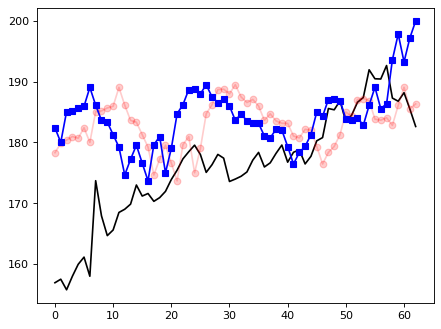
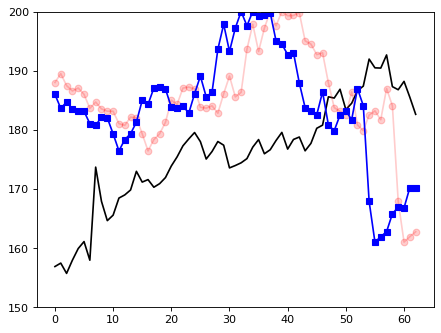
2

diff --git a/2_stocks.py b/2_stocks.py
@@ -8,7 +8,7 @@ amzn = utils.readHistoricalCsv("data/amzn.csv")
 
 # Data prep
 N = len(goog.x)  # data len
-Y = np.roll(amzn.y1, 15)  # Synthetic delay in data
+Y = np.roll(amzn.y1, -15)  # Synthetic delay in data
 i_st = N // 4
 i_en = 3 * N // 4
 n = i_en - i_st  # sample len
@@ -22,7 +22,7 @@ max_dt = N // 4
 fig, ax = plt.subplots()
 
 ax.set_xticks(np.arange(0, n, 10))
-# ax.set_ylim([-12.5, 12.5])
+ax.set_ylim([150, 200])
 
 # FIG 2 - Cross-correlation
 fig2, ax2 = plt.subplots()
@@ -70,7 +70,7 @@ for l in l2:
 fig2.savefig("plots/2_3b.png", transparent=False, dpi=80, bbox_inches="tight")
 
 # 4 - optimal offset
-dt = 15
+dt = -15
 y = Y[i_st + dt : i_en + dt]
 ax.plot(x, y, "g^-")
 ax2.plot([dt], [sum(utils.corr(y0, y))], "g^-")
